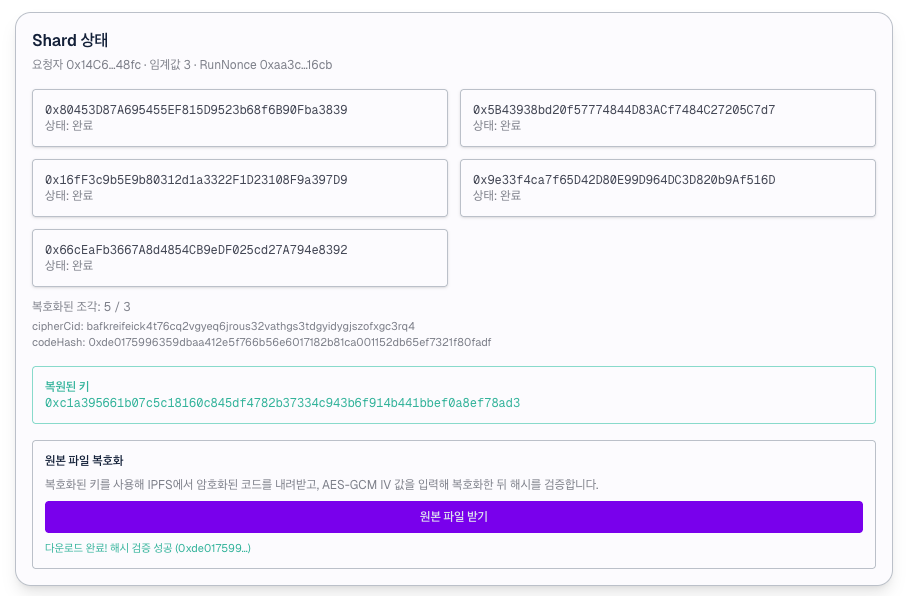
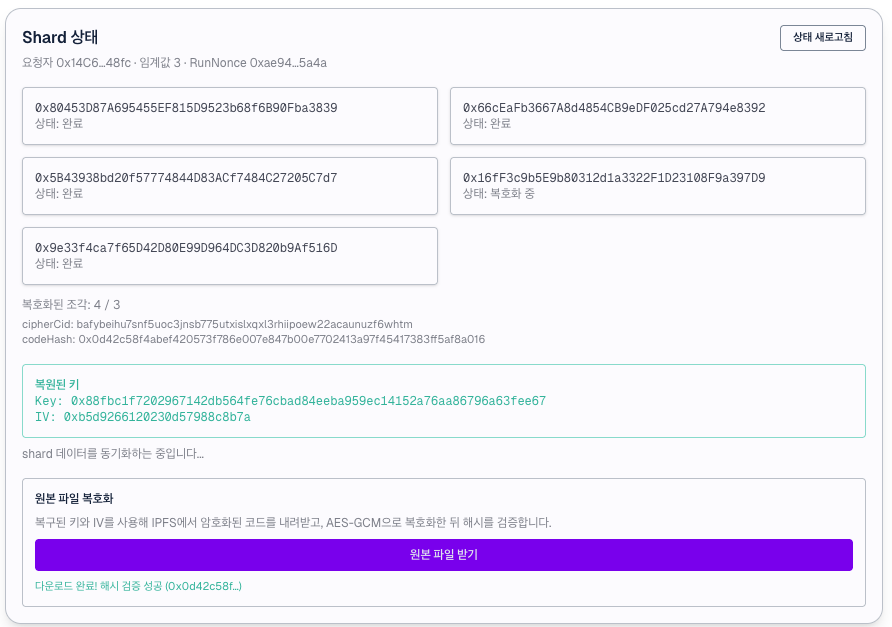
docs: change image

Changed region(s): [[0.0, 0.0, 0.9989, 0.9966]]

diff --git a/docs/week4/index.html b/docs/week4/index.html
@@ -1119,7 +1119,7 @@ contract CommitteeManager is AccessControl {
 make start
 </code></pre>
 <p>localhost:3000에 접속해서 확인하면 됩니다.</p>
-<p class="image-container"><img alt="Test Deploy" src="img/e5e42a7e98c437c1.png"><img alt="Test License" src="img/456ef5af3580cae5.png"><img alt="Test Run Request" src="img/d94124131ba009be.png"><img alt="Test Shard Pending" src="img/252e5ffb8f373aaa.png"><img alt="Test Shard End" src="img/d99cf596f23bb1dc.png"></p>
+<p class="image-container"><img alt="Test Deploy" src="img/e5e42a7e98c437c1.png"><img alt="Test License" src="img/456ef5af3580cae5.png"><img alt="Test Run Request" src="img/d94124131ba009be.png"><img alt="Test Shard Pending" src="img/252e5ffb8f373aaa.png"><img alt="Test Shard End" src="img/e55010357f3c6f6b.png"></p>
 
 
       </google-codelab-step>
